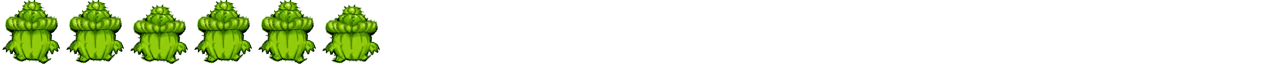
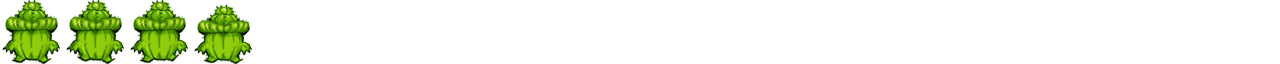
Added UI for 4 characters, added Cactusloader

Changed region(s): [[0.0625, 0.0, 0.3125, 1.0], [0.0, 0.875, 0.0312, 1.0]]

diff --git a/Shooty(JX)/Shooty/core/src/com/eye7/ShootyWooty/helper/CactusLoader.java b/Shooty(JX)/Shooty/core/src/com/eye7/ShootyWooty/helper/CactusLoader.java
@@ -1,0 +1,148 @@
+package com.eye7.ShootyWooty.helper;
+
+import com.badlogic.gdx.Gdx;
+import com.badlogic.gdx.graphics.Texture;
+import com.badlogic.gdx.graphics.g2d.Animation;
+import com.badlogic.gdx.graphics.g2d.TextureRegion;
+import com.eye7.ShootyWooty.main;
+import com.eye7.ShootyWooty.model.GameConstants;
+
+/**
+ * Created by PT on 3/4/2015.
+ */
+
+
+public class CactusLoader {
+    public static Animation animation_cactus1_idle;
+    public static Animation animation_cactus1_RS;
+    public static Animation animation_cactus1_RS_idle;
+    public static Animation animation_cactus1_LS;
+    public static Animation animation_cactus1_LS_idle;
+    public static Animation animation_cactus1_back;
+    public static Animation animation_cactus1_back_idle;
+    public static Animation animation_cactus1_front;
+    public static Animation animation_cactus1_score;
+    public static Animation animation_cactus1_shot;
+    public static Animation animation_cactus1_lose;
+
+    public static Animation animation_cactus2_idle;
+    public static Animation animation_cactus2_RS;
+    public static Animation animation_cactus2_RS_idle;
+    public static Animation animation_cactus2_LS;
+    public static Animation animation_cactus2_LS_idle;
+    public static Animation animation_cactus2_back;
+    public static Animation animation_cactus2_back_idle;
+    public static Animation animation_cactus2_front;
+    public static Animation animation_cactus2_score;
+    public static Animation animation_cactus2_shot;
+    public static Animation animation_cactus2_lose;
+
+    public static Animation animation_cactus3_idle;
+    public static Animation animation_cactus3_RS;
+    public static Animation animation_cactus3_RS_idle;
+    public static Animation animation_cactus3_LS;
+    public static Animation animation_cactus3_LS_idle;
+    public static Animation animation_cactus3_back;
+    public static Animation animation_cactus3_back_idle;
+    public static Animation animation_cactus3_front;
+    public static Animation animation_cactus3_score;
+    public static Animation animation_cactus3_shot;
+    public static Animation animation_cactus3_lose;
+
+    public static Animation animation_cactus4_idle;
+    public static Animation animation_cactus4_RS;
+    public static Animation animation_cactus4_RS_idle;
+    public static Animation animation_cactus4_LS;
+    public static Animation animation_cactus4_LS_idle;
+    public static Animation animation_cactus4_back;
+    public static Animation animation_cactus4_back_idle;
+    public static Animation animation_cactus4_front;
+    public static Animation animation_cactus4_score;
+    public static Animation animation_cactus4_shot;
+    public static Animation animation_cactus4_lose;
+
+    public CactusLoader(int NUM_PLAYERS){
+        if(NUM_PLAYERS==2){
+            loadC1();
+            loadC2();
+        }
+        else{
+            loadC1();
+            loadC2();
+            loadC3();
+            loadC4();
+        }
+    }
+
+
+    public Animation loader(String file, int frameNumber, float speed, boolean flipX){
+        Texture sprite = new Texture(Gdx.files.internal(file));
+        sprite.setFilter(Texture.TextureFilter.Nearest,Texture.TextureFilter.Nearest);
+
+        TextureRegion[] frames = new TextureRegion[frameNumber];
+        int count=0;
+        for (int i = 0; i < frameNumber ; i++) {
+            frames[i] = new TextureRegion(sprite,count,0,64,64);
+            frames[i].flip(flipX,true);
+            count+=64;
+        }
+        return new Animation(speed,frames);
+    }
+    public void loadC1(){
+        animation_cactus1_idle = loader("Character1/Cactus1_idle.png",14,0.2f,false);
+        animation_cactus1_RS = loader("Character1/Cactus1_RS.png",4,0.4f,false);
+        animation_cactus1_RS_idle = loader("Character1/Cactus1_RS_idle.png",4,0.4f,false);
+        animation_cactus1_LS = loader("Character1/Cactus1_RS.png",4,0.4f,true);
+        animation_cactus1_LS_idle = loader("Character1/Cactus1_RS_idle.png",4,0.4f,true);
+        animation_cactus1_back = loader("Character1/Cactus1_back.png",4,0.3f,false);
+        animation_cactus1_back_idle = loader("Character1/Cactus1_back_idle.png",2,0.4f,false);
+        animation_cactus1_front = loader("Character1/Cactus1_front.png",6,0.4f,false);
+        animation_cactus1_score = loader("Character1/Cactus1_score.png",8,0.2f,false);
+        animation_cactus1_shot = loader("Character1/Cactus1_shot.png",2,0.2f,false);
+        animation_cactus1_lose = loader("Character1/Cactus1_lose.png",2,0.2f,false);
+
+    }
+    public void loadC2(){
+        animation_cactus2_idle = loader("Character2/Cactus2_idle.png",9,0.2f,false);
+        animation_cactus2_RS = loader("Character2/Cactus2_RS.png",4,0.3f,false);
+        animation_cactus2_RS_idle = loader("Character2/Cactus2_RS_idle.png",4,0.4f,false);
+        animation_cactus2_LS = loader("Character2/Cactus2_RS.png",4,0.3f,true);
+        animation_cactus2_LS_idle = loader("Character2/Cactus2_RS_idle.png",4,0.4f,true);
+        animation_cactus2_back = loader("Character2/Cactus2_back.png",4,0.3f,false);
+        animation_cactus2_back_idle = loader("Character2/Cactus2_back_idle.png",2,0.4f,false);
+        animation_cactus2_front = loader("Character2/Cactus2_front.png",2,0.3f,false);
+        animation_cactus2_score = loader("Character2/Cactus2_score.png",6,0.4f,false);
+        animation_cactus2_shot = loader("Character2/Cactus2_shot.png",2,0.2f,false);
+        animation_cactus2_lose = loader("Character2/Cactus2_lose.png",2,0.2f,false);
+
+
+    }
+    public void loadC3(){
+        animation_cactus3_idle = loader("Character3/Cactus3_idle.png",11,0.3f,false);
+        animation_cactus3_RS = loader("Character3/Cactus3_RS.png",4,0.3f,false);
+        animation_cactus3_RS_idle = loader("Character3/Cactus3_RS_idle.png",4,0.4f,false);
+        animation_cactus3_LS = loader("Character3/Cactus3_RS.png",4,0.3f,true);
+        animation_cactus3_LS_idle = loader("Character3/Cactus3_RS_idle.png",4,0.4f,true);
+        animation_cactus3_back = loader("Character3/Cactus3_back.png",2,0.4f,false);
+        animation_cactus3_back_idle = loader("Character3/Cactus3_back_idle.png",4,0.3f,false);
+        animation_cactus3_front = loader("Character3/Cactus3_front.png",2,0.3f,false);
+        animation_cactus3_score = loader("Character3/Cactus3_score.png",9,0.4f,false);
+        animation_cactus3_shot = loader("Character3/Cactus3_shot.png",2,0.2f,false);
+        animation_cactus3_lose = loader("Character3/Cactus3_lose.png",4,0.2f,false);
+
+    }
+    public void loadC4(){
+        animation_cactus4_idle = loader("Character4/Cactus4_idle.png",9,0.3f,false);
+        animation_cactus4_RS = loader("Character4/Cactus4_RS.png",4,0.3f,false);
+        animation_cactus4_RS_idle = loader("Character4/Cactus4_RS_idle.png",2,0.4f,false);
+        animation_cactus4_LS = loader("Character4/Cactus4_RS.png",4,0.3f,true);
+        animation_cactus4_LS_idle = loader("Character4/Cactus4_RS_idle.png",2,0.4f,true);
+        animation_cactus4_back = loader("Character4/Cactus4_back.png",2,0.4f,false);
+        animation_cactus4_back_idle = loader("Character4/Cactus4_back_idle.png",4,0.3f,false);
+        animation_cactus4_front = loader("Character4/Cactus4_front.png",2,0.3f,false);
+        animation_cactus4_score = loader("Character4/Cactus4_score.png",7,0.4f,false);
+        animation_cactus4_shot = loader("Character4/Cactus4_shot.png",2,0.2f,false);
+        animation_cactus4_lose = loader("Character4/Cactus4_lose.png",3,0.2f,false);
+    }
+
+}

diff --git a/Shooty(JX)/Shooty/core/src/com/eye7/ShootyWooty/render/GameRenderer.java b/Shooty(JX)/Shooty/core/src/com/eye7/ShootyWooty/render/GameRenderer.java
@@ -71,14 +71,54 @@ public class GameRenderer {
         MainLoader.green.draw(batcher, "Player2 blood: "+Integer.toString(GameConstants.PLAYERS.get(2).getHealth()), 0,90);
 
 //        if(!stop) {
-//            batcher.draw(MainLoader.Animation_cactus1_idle.getKeyFrame(runTime,true), 100, 20, 64, 64);
-//            batcher.draw(MainLoader.Animation_cactus1_RS.getKeyFrame(runTime,true), 164,84,64,64);
-//            batcher.draw(MainLoader.Animation_cactus1_LS.getKeyFrame(runTime,true), 164,20,64,64);
-//            batcher.draw(MainLoader.Animation_cactus1_back.getKeyFrame(runTime,true), 100,84,64,64);
-//            batcher.draw(MainLoader.Animation_cactus1_front.getKeyFrame(runTime,true), 228,84,64,64);
-//            batcher.draw(MainLoader.Animation_cactus1_score.getKeyFrame(runTime,true), 228,20,64,64);
-//            batcher.draw(MainLoader.Animation_faucet.getKeyFrame(runTime,true), 292,20,64+64,64+64);
-//
+//             batcher.draw(CactusLoader.animation_cactus1_idle.getKeyFrame(runTime,true), 100, 20, 64, 64);
+//            batcher.draw(CactusLoader.animation_cactus1_RS.getKeyFrame(runTime,true), 164,84,64,64);
+//              batcher.draw(CactusLoader.animation_cactus1_RS_idle.getKeyFrame(runTime,true), 164,84,64,64);
+//            batcher.draw(CactusLoader.animation_cactus1_LS.getKeyFrame(runTime,true), 164,20,64,64);
+//              batcher.draw(CactusLoader.animation_cactus1_LS_idle.getKeyFrame(runTime,true), 164,20,64,64);
+//            batcher.draw(CactusLoader.animation_cactus1_back.getKeyFrame(runTime,true), 100,84,64,64);
+//              batcher.draw(CactusLoader.animation_cactus1_back_idle.getKeyFrame(runTime,true), 100,84,64,64);
+//            batcher.draw(CactusLoader.animation_cactus1_front.getKeyFrame(runTime,true), 228,84,64,64);
+//            batcher.draw(CactusLoader.animation_cactus1_score.getKeyFrame(runTime,true), 228,20,64,64);
+//            batcher.draw(CactusLoader.animation_cactus1_shot.getKeyFrame(runTime,true), 292,20,64,64);
+//            batcher.draw(CactusLoader.animation_cactus1_lose.getKeyFrame(runTime,true), 292,84,64,64);
+//            batcher.draw(CactusLoader.Animation_faucet.getKeyFrame(runTime,true), 292+64,20,64+64,64+64);
+
+//            batcher.draw(CactusLoader.animation_cactus2_idle.getKeyFrame(runTime,true), 100, 20, 64, 64);
+//            batcher.draw(CactusLoader.animation_cactus2_RS.getKeyFrame(runTime,true), 356,20,64,64);
+//            batcher.draw(CactusLoader.animation_cactus2_RS_idle.getKeyFrame(runTime,true), 164,84,64,64);
+//            batcher.draw(CactusLoader.animation_cactus2_LS.getKeyFrame(runTime,true), 356,84,64,64);
+//            batcher.draw(CactusLoader.animation_cactus2_LS_idle.getKeyFrame(runTime,true), 164,20,64,64);
+//            batcher.draw(CactusLoader.animation_cactus2_back.getKeyFrame(runTime,true), 100,84,64,64);
+//            batcher.draw(CactusLoader.animation_cactus2_back_idle.getKeyFrame(runTime,true), 420,20,64,64);
+//            batcher.draw(CactusLoader.animation_cactus2_front.getKeyFrame(runTime,true), 228,84,64,64);
+//            batcher.draw(CactusLoader.animation_cactus2_score.getKeyFrame(runTime,true), 228,20,64,64);
+//            batcher.draw(CactusLoader.animation_cactus2_shot.getKeyFrame(runTime,true), 292,20,64,64);
+//            batcher.draw(CactusLoader.animation_cactus2_lose.getKeyFrame(runTime,true), 292,84,64,64);
+
+//              batcher.draw(CactusLoader.animation_cactus3_idle.getKeyFrame(runTime,true), 100, 20, 64, 64);
+//            batcher.draw(CactusLoader.animation_cactus3_RS.getKeyFrame(runTime,true), 356,20,64,64);
+//            batcher.draw(CactusLoader.animation_cactus3_RS_idle.getKeyFrame(runTime,true), 164,84,64,64);
+//            batcher.draw(CactusLoader.animation_cactus3_LS.getKeyFrame(runTime,true), 356,84,64,64);
+//            batcher.draw(CactusLoader.animation_cactus3_LS_idle.getKeyFrame(runTime,true), 164,20,64,64);
+//            batcher.draw(CactusLoader.animation_cactus3_back.getKeyFrame(runTime,true), 100,84,64,64);
+//            batcher.draw(CactusLoader.animation_cactus3_back_idle.getKeyFrame(runTime,true), 420,20,64,64);
+//            batcher.draw(CactusLoader.animation_cactus3_front.getKeyFrame(runTime,true), 228,84,64,64);
+//            batcher.draw(CactusLoader.animation_cactus3_score.getKeyFrame(runTime,true), 228,20,64,64);
+//            batcher.draw(CactusLoader.animation_cactus3_shot.getKeyFrame(runTime,true), 292,20,64,64);
+//            batcher.draw(CactusLoader.animation_cactus3_lose.getKeyFrame(runTime,true), 292,84,64,64);
+
+//            batcher.draw(CactusLoader.animation_cactus4_idle.getKeyFrame(runTime,true), 100, 20, 64, 64);
+//            batcher.draw(CactusLoader.animation_cactus4_RS.getKeyFrame(runTime,true), 356,20,64,64);
+//            batcher.draw(CactusLoader.animation_cactus4_RS_idle.getKeyFrame(runTime,true), 164,84,64,64);
+//            batcher.draw(CactusLoader.animation_cactus4_LS.getKeyFrame(runTime,true), 356,84,64,64);
+//            batcher.draw(CactusLoader.animation_cactus4_LS_idle.getKeyFrame(runTime,true), 164,20,64,64);
+//            batcher.draw(CactusLoader.animation_cactus4_back.getKeyFrame(runTime,true), 100,84,64,64);
+//            batcher.draw(CactusLoader.animation_cactus4_back_idle.getKeyFrame(runTime,true), 420,20,64,64);
+//            batcher.draw(CactusLoader.animation_cactus4_front.getKeyFrame(runTime,true), 228,84,64,64);
+//            batcher.draw(CactusLoader.animation_cactus4_score.getKeyFrame(runTime,true), 228,20,64,64);
+//            batcher.draw(CactusLoader.animation_cactus4_shot.getKeyFrame(runTime,true), 292,20,64,64);
+//            batcher.draw(CactusLoader.animation_cactus4_lose.getKeyFrame(runTime,true), 292,84,64,64);
 //        }
         //MainLoader.white.setScale(main.scaleX, main.scaleY);
         batcher.end();

diff --git a/Shooty(JX)/Shooty/core/src/com/eye7/ShootyWooty/helper/MainLoader.java b/Shooty(JX)/Shooty/core/src/com/eye7/ShootyWooty/helper/MainLoader.java
@@ -20,14 +20,6 @@ public class MainLoader {
     public static TextureAtlas atlas;
     public static Skin skin;
 
-
-    public static Animation animation_cactus1_idle;
-    public static Animation animation_cactus1_RS;
-    public static Animation animation_cactus1_LS;
-    public static Animation animation_cactus1_back;
-    public static Animation animation_cactus1_front;
-    public static Animation animation_cactus1_score;
-
     public static Animation Animation_faucet;
 
     public static void load() {
@@ -37,75 +29,6 @@ public class MainLoader {
         green.setScale(GameConstants.SCALE_X, GameConstants.SCALE_Y);
         atlas = new TextureAtlas(Gdx.files.internal("buttons/Gbuttons.pack")); // atlas for skin
         skin = new Skin(atlas); // skin containing drawables
-
-        Texture cactus1_idle = new Texture(Gdx.files.internal("Character1/Cactus1_idle.png"));
-        cactus1_idle.setFilter(Texture.TextureFilter.Nearest, Texture.TextureFilter.Nearest);
-
-        TextureRegion[] cactus = new TextureRegion[14];
-        int cactus_idle1= 0;
-        for (int i = 0; i < 14; i++) {
-
-            cactus[i] = new TextureRegion(cactus1_idle,cactus_idle1,0,64,64);
-            cactus[i].flip(false,true);
-            cactus_idle1+=64;
-        }
-
-        animation_cactus1_idle = new Animation(0.2f,cactus);
-
-        Texture cactus1_RS = new Texture(Gdx.files.internal("Character1/Cactus1_R.png"));
-        cactus1_RS.setFilter(Texture.TextureFilter.Nearest,Texture.TextureFilter.Nearest);
-
-        TextureRegion[] cactus_RS = new TextureRegion[4];
-        int cactus_rs1=0;
-        TextureRegion[] cactus_LS = new TextureRegion[4];
-        int cactus_ls1=0;
-        for (int i = 0; i < 4 ; i++) {
-            cactus_RS[i] = new TextureRegion(cactus1_RS,cactus_rs1,0,64,64);
-            cactus_LS[i] = new TextureRegion(cactus1_RS,cactus_ls1,0,64,64);
-            cactus_RS[i].flip(false,true);
-            cactus_LS[i].flip(true,true);
-            cactus_ls1+=64;
-            cactus_rs1+=64;
-        }
-
-        animation_cactus1_RS = new Animation(0.4f,cactus_RS);
-        animation_cactus1_LS = new Animation(0.4f,cactus_LS);
-
-        Texture cactus1_back = new Texture(Gdx.files.internal("Character1/Cactus1_back.png"));
-        cactus1_RS.setFilter(Texture.TextureFilter.Nearest,Texture.TextureFilter.Nearest);
-
-        TextureRegion[] cactus_back = new TextureRegion[6];
-        int cactus_back1=0;
-        for (int i = 0; i < 6 ; i++) {
-            cactus_back[i] = new TextureRegion(cactus1_back,cactus_back1,0,64,64);
-            cactus_back[i].flip(false,true);
-            cactus_back1+=64;
-        }
-        animation_cactus1_back = new Animation(0.4f,cactus_back);
-
-        Texture cactus1_front = new Texture(Gdx.files.internal("Character1/Cactus1_front.png"));
-        cactus1_RS.setFilter(Texture.TextureFilter.Nearest,Texture.TextureFilter.Nearest);
-
-        TextureRegion[] cactus_front = new TextureRegion[6];
-        int cactus_front1=0;
-        for (int i = 0; i < 6 ; i++) {
-            cactus_front[i] = new TextureRegion(cactus1_front,cactus_front1,0,64,64);
-            cactus_front[i].flip(false,true);
-            cactus_front1+=64;
-        }
-        animation_cactus1_front = new Animation(0.4f,cactus_front);
-
-
-        Texture score = new Texture(Gdx.files.internal("Character1/Cactus1_score.png"));
-
-        TextureRegion[] scores = new TextureRegion[13];
-        int cactus1_score=0;
-        for (int i = 0; i < 13 ; i++) {
-            scores[i] = new TextureRegion(score,cactus1_score,0,64,64);
-            scores[i].flip(false,true);
-            cactus1_score+=64;
-        }
-        animation_cactus1_score = new Animation(0.1f,scores);
 
         Texture faucet = new Texture(Gdx.files.internal("ShootyUI/Sprite_faucet.png"));
         faucet.setFilter(Texture.TextureFilter.Nearest,Texture.TextureFilter.Nearest);

diff --git a/Shooty(JX)/Shooty/core/src/com/eye7/ShootyWooty/main.java b/Shooty(JX)/Shooty/core/src/com/eye7/ShootyWooty/main.java
@@ -7,6 +7,7 @@ import com.badlogic.gdx.Screen;
 import com.badlogic.gdx.graphics.Texture;
 import com.badlogic.gdx.graphics.g2d.SpriteBatch;
 import com.eye7.ShootyWooty.helper.ActionResolver;
+import com.eye7.ShootyWooty.helper.CactusLoader;
 import com.eye7.ShootyWooty.helper.MainLoader;
 import com.eye7.ShootyWooty.model.GameConstants;
 import com.eye7.ShootyWooty.screen.MainScreen;
@@ -28,6 +29,7 @@ public class main extends Game {
         Gdx.app.log("ShootyGame", "created");
         GameConstants.SCALE_X = Gdx.graphics.getWidth() / 960.0f;
         GameConstants.SCALE_Y = Gdx.graphics.getHeight() / 540.0f;
+        CactusLoader cactusLoader = new CactusLoader(GameConstants.NUM_PLAYERS);
         MainLoader.load();
         setScreen(new MainScreen(this, actionResolver));
         Gdx.app.log("Screen Reso:", "Width: " + String.valueOf(Gdx.graphics.getWidth()));
